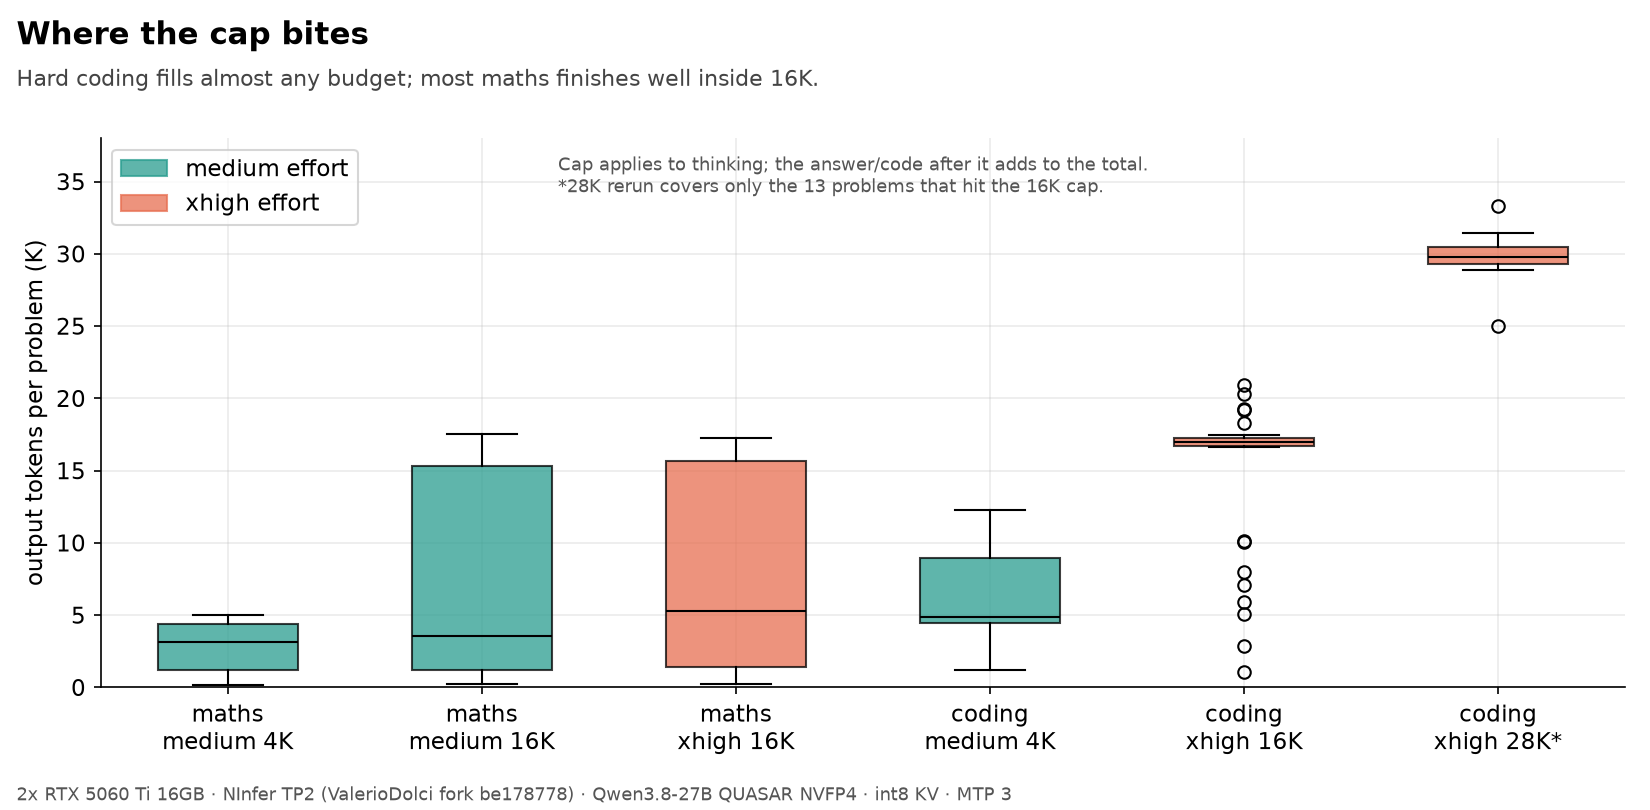
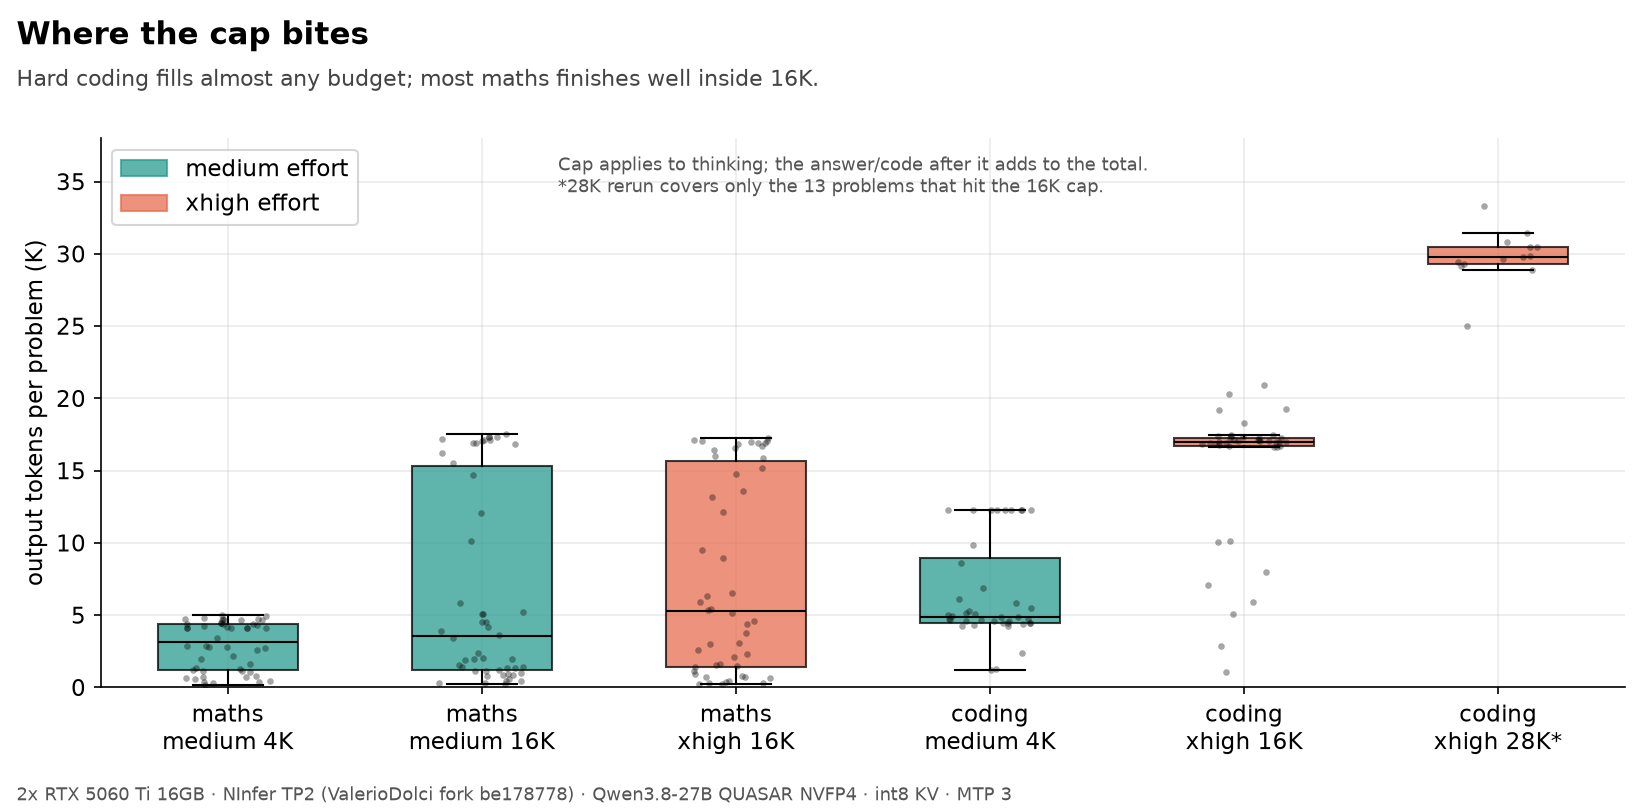
docs: 262K vision fit, 64Kx4 speed, server cap check, chart fixes

diff --git a/docs/ninfer-tp2-qwen38.md b/docs/ninfer-tp2-qwen38.md
@@ -9,7 +9,7 @@ All numbers come from one machine. Treat them as a starting point, not a guarant
 - 2x RTX 5060 Ti 16GB, each on PCIe Gen3 x8, no P2P (the fork's pinned-host mailbox all-reduce handles this), driver 595.58.03, CUDA 13.2, power limits 170/180 W.
 - Engine: [ValerioDolci/ninfer-tp2](https://github.com/ValerioDolci/ninfer-tp2) at `be178778` (v0.4.7+1).
 - Weights: [Feyd89/Qwen3.8-27B-QUASAR-QAT-nvfp4-NInfer](https://huggingface.co/Feyd89/Qwen3.8-27B-QUASAR-QAT-nvfp4-NInfer), about 8.7 GiB per rank.
-- Launcher: [`examples/ninfer-tp2-qwen38-27b.sh`](../examples/ninfer-tp2-qwen38-27b.sh). int8 KV, MTP with 3 draft tokens, vision on, 196,608 context, 2 concurrent requests, 8 device state slots.
+- Launcher: [`examples/ninfer-tp2-qwen38-27b.sh`](../examples/ninfer-tp2-qwen38-27b.sh). int8 KV, MTP with 3 draft tokens, vision on, 262,144 context, 2 concurrent requests, 8 device state slots, 16K default thinking cap.
 
 ### Why QUASAR rather than the official NVFP4
 
@@ -27,10 +27,11 @@ The QUASAR model card compares it directly against the official NVFP4 weights: M
 | Prefill, uncached, 1.5K / 6K / 24K / 48K / 90K / 150K | 1,900 / 2,050 / 1,900 / 1,650 / 1,370 / 1,100 tok/s |
 | Two 24K prompts at once | finished at 12.8 s and 25.4 s (prefill is serialised) |
 | Two 90K prompts at once | one returned HTTP 503 |
+| 64K context, 4 concurrent: decode 1 / 2 / 4 streams | 73 / 67 / 53 tok/s per stream (73 / 134 / 211 total) |
 | Stop service, GPUs free | under 1 s |
 | Cold start to first response | 16.5 to 25.5 s |
 
-More concurrency raises total decode throughput but not prefill. Prefill already saturates both cards, so a second long prompt waits for the first.
+Speed rows above are from the 196K production config except the 64K x 4 row, measured in a separate restart. More concurrency raises total decode throughput (211 tok/s with 4 streams) but not prefill. Prefill already saturates both cards, so a second long prompt waits for the first.
 
 An earlier matched run against vLLM (same QUASAR checkpoint, TP2, MTP 3) found NInfer 31 to 34% faster on decode and about 15% faster on 12.7K prefill, with no measurable quality difference on GSM8K (1,319 items) or MMLU-Pro (420 items).
 
@@ -38,11 +39,12 @@ An earlier matched run against vLLM (same QUASAR checkpoint, TP2, MTP 3) found N
 
 | Config | VRAM per card | Result |
 | --- | ---: | --- |
-| 196K, vision, 8 state slots, 2 concurrent | 13.4 / 13.0 GB | runs, used for everything below |
-| 262K, no vision, 4 state slots, 2 concurrent | 13.8 GB | starts in 17 s; recalled an updated fact correctly at 171K prompt tokens (168 s, nearly all prefill) |
-| 64K, 4 concurrent, 262K pooled KV, 8 slots | 14.3 GB | starts in 25 s; speed not yet measured |
+| 196K, vision, 8 state slots, 2 concurrent | 13.4 / 13.0 GB | runs; used for all accuracy tests below |
+| 262K, vision, 8 state slots, 2 concurrent, 16K cap | 14.5 / 14.1 GB | starts in 14.5 s; read a chart image correctly; recalled an updated fact at 171K (169 s) and 238K (284 s) prompt tokens |
+| 262K, no vision, 4 state slots, 2 concurrent | 13.8 GB | starts in 17 s; recall correct at 171K |
+| 64K, 4 concurrent, 262K pooled KV, 8 slots | 14.3 GB | starts in 16 to 25 s; 211 tok/s total decode at 4 streams |
 
-262K with vision on has not been tested yet.
+The fork's README says vision plus 8 slots does not fit at 196,608 with MTP3. On these cards with int8 KV it fit at the full 262,144, with about 1.8 GB spare on the vision card. Recall at that length works but costs minutes of prefill.
 
 The TP2 fork rejects Qwen3.6-35B-A3B (MoE) at startup, and the 21 GB MoE does not fit on a single 16 GB card for single-GPU NInfer. Use llama.cpp or vLLM for that model on this hardware.
 
@@ -96,5 +98,5 @@ A 4K cap throttles hard reasoning. At 16K, effort level changes the result by a 
 
 - Single machine, one run per setting, modest sample sizes. Differences of a few problems are noise.
 - Benchmarks ran with 2 concurrent requests on a live server, so per-problem times include some queueing.
-- The per-request cap was tested; the server-wide `--default-thinking-budget` flag in the launcher was not yet benchmarked separately.
+- The accuracy runs used per-request caps. The server-wide `--default-thinking-budget` was checked separately: with a 1,024 default and no per-request settings, a hard AIME problem stopped thinking and still produced an answer (1,526 output tokens). Accuracy under the server default was not rerun.
 - Algorithmic problems are not repository work. These tests say nothing about multi-file edits or agent loops.
